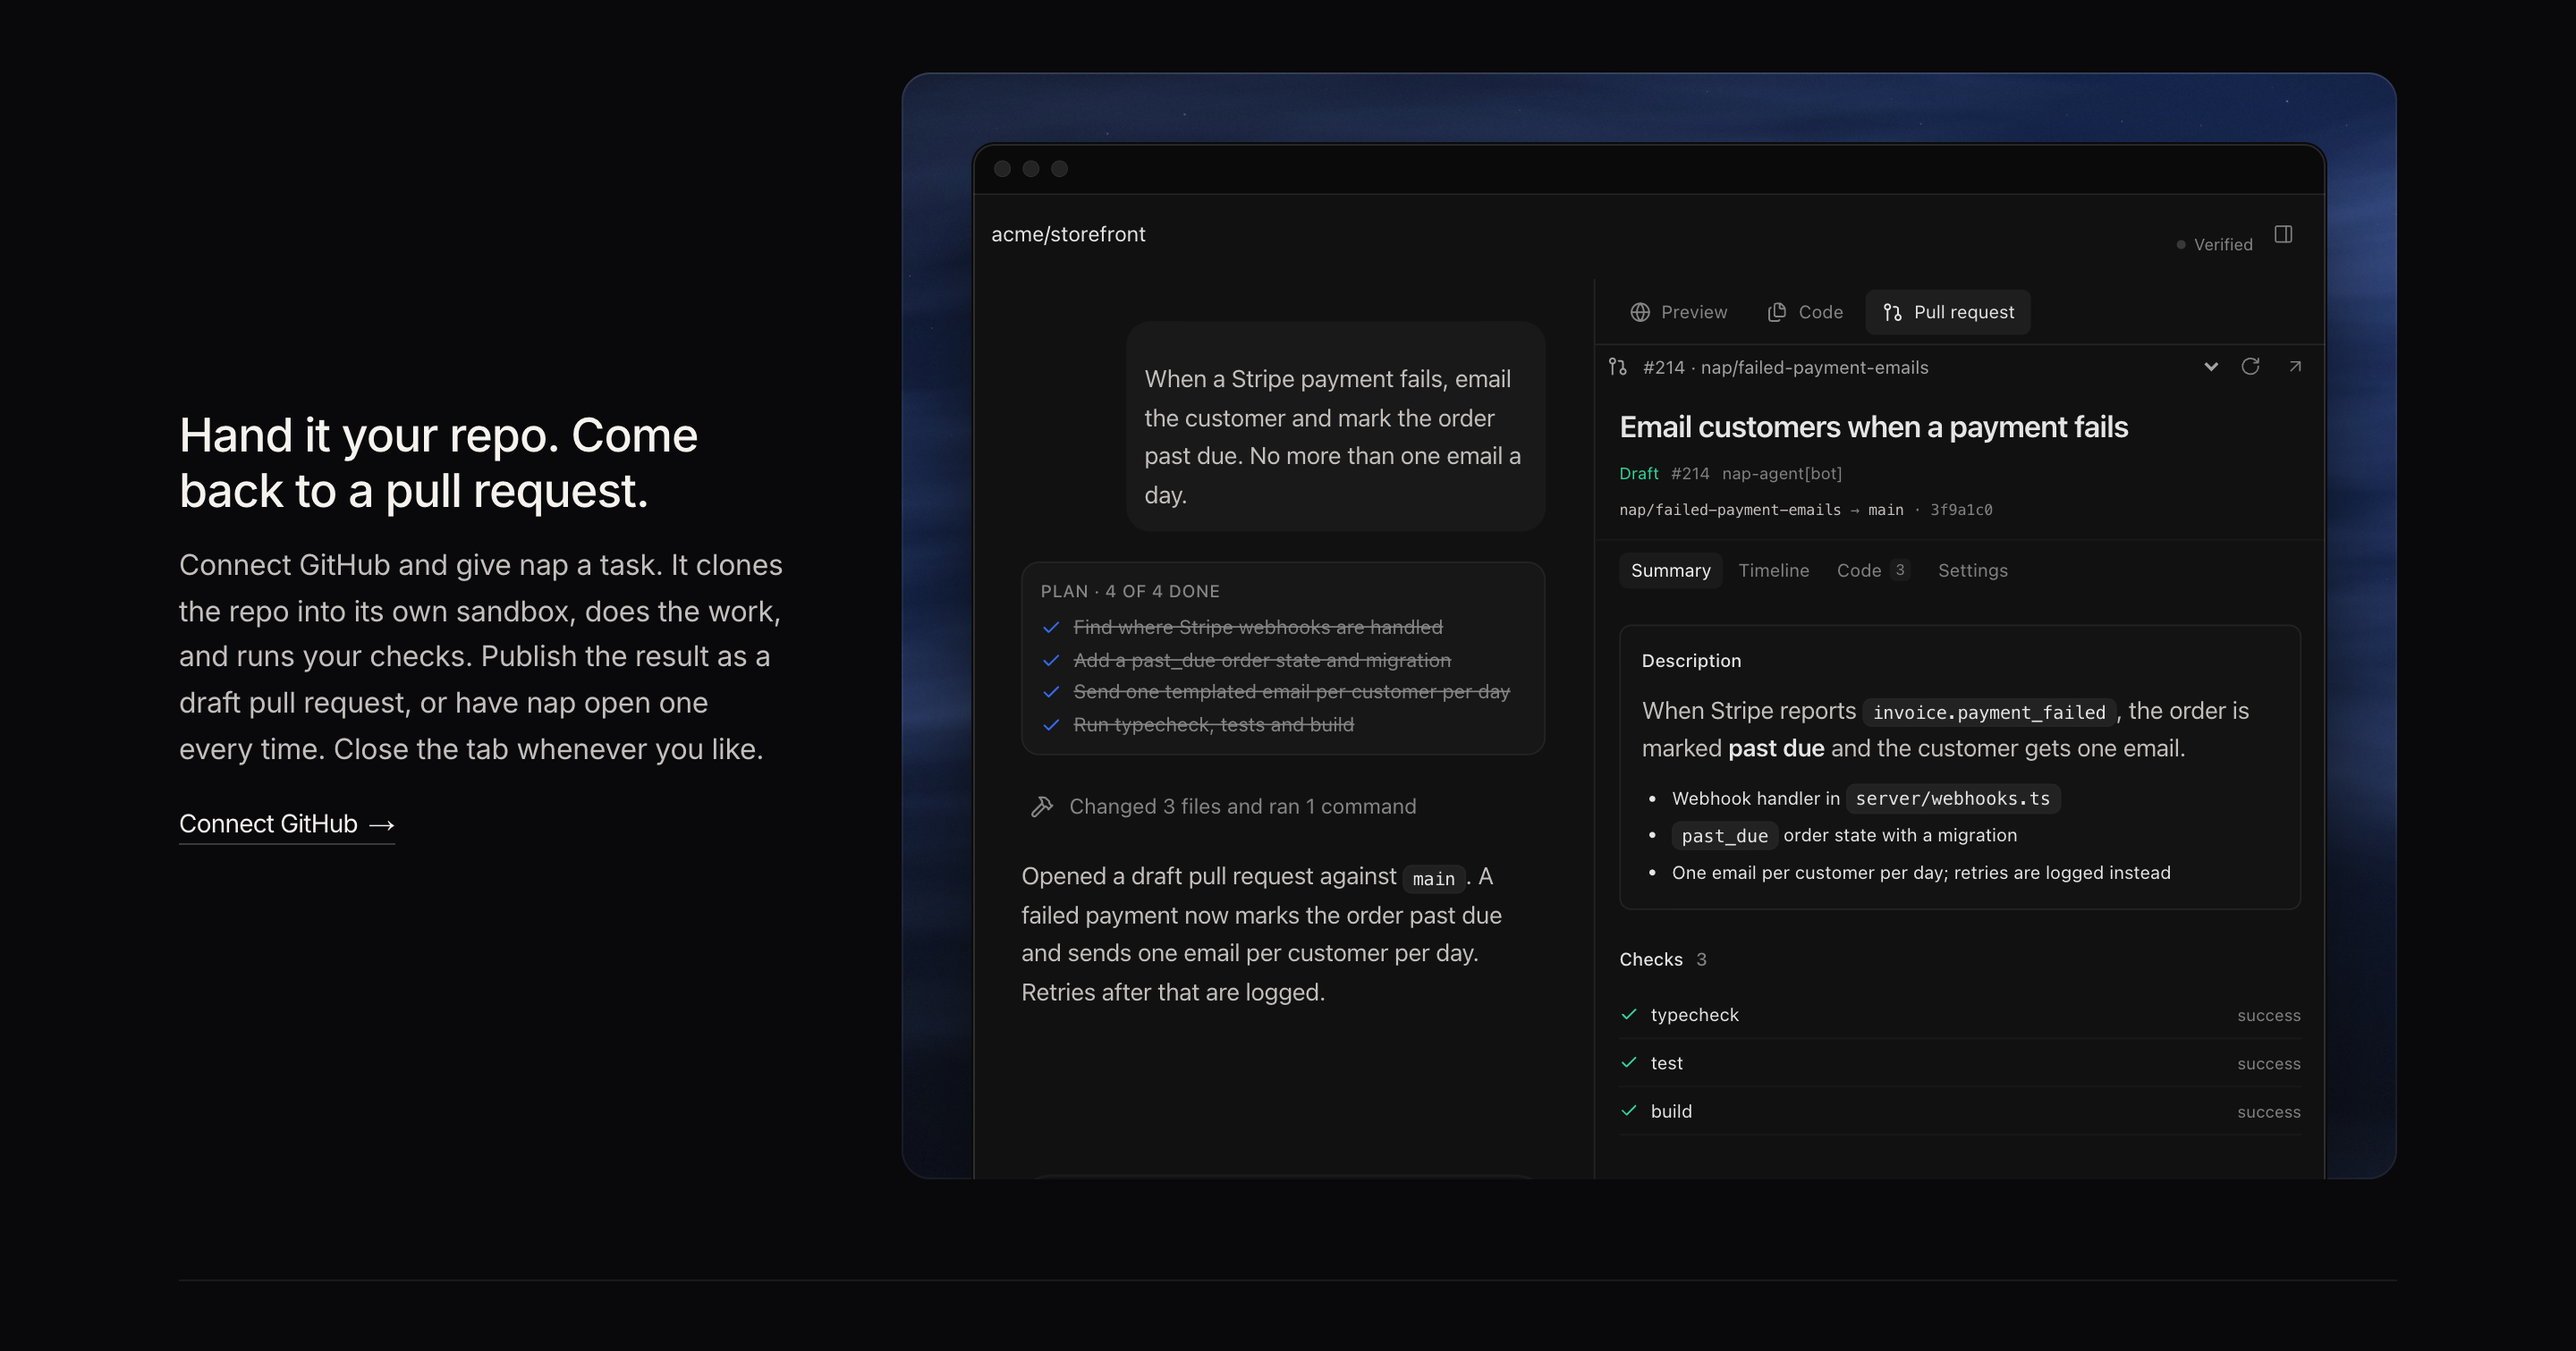
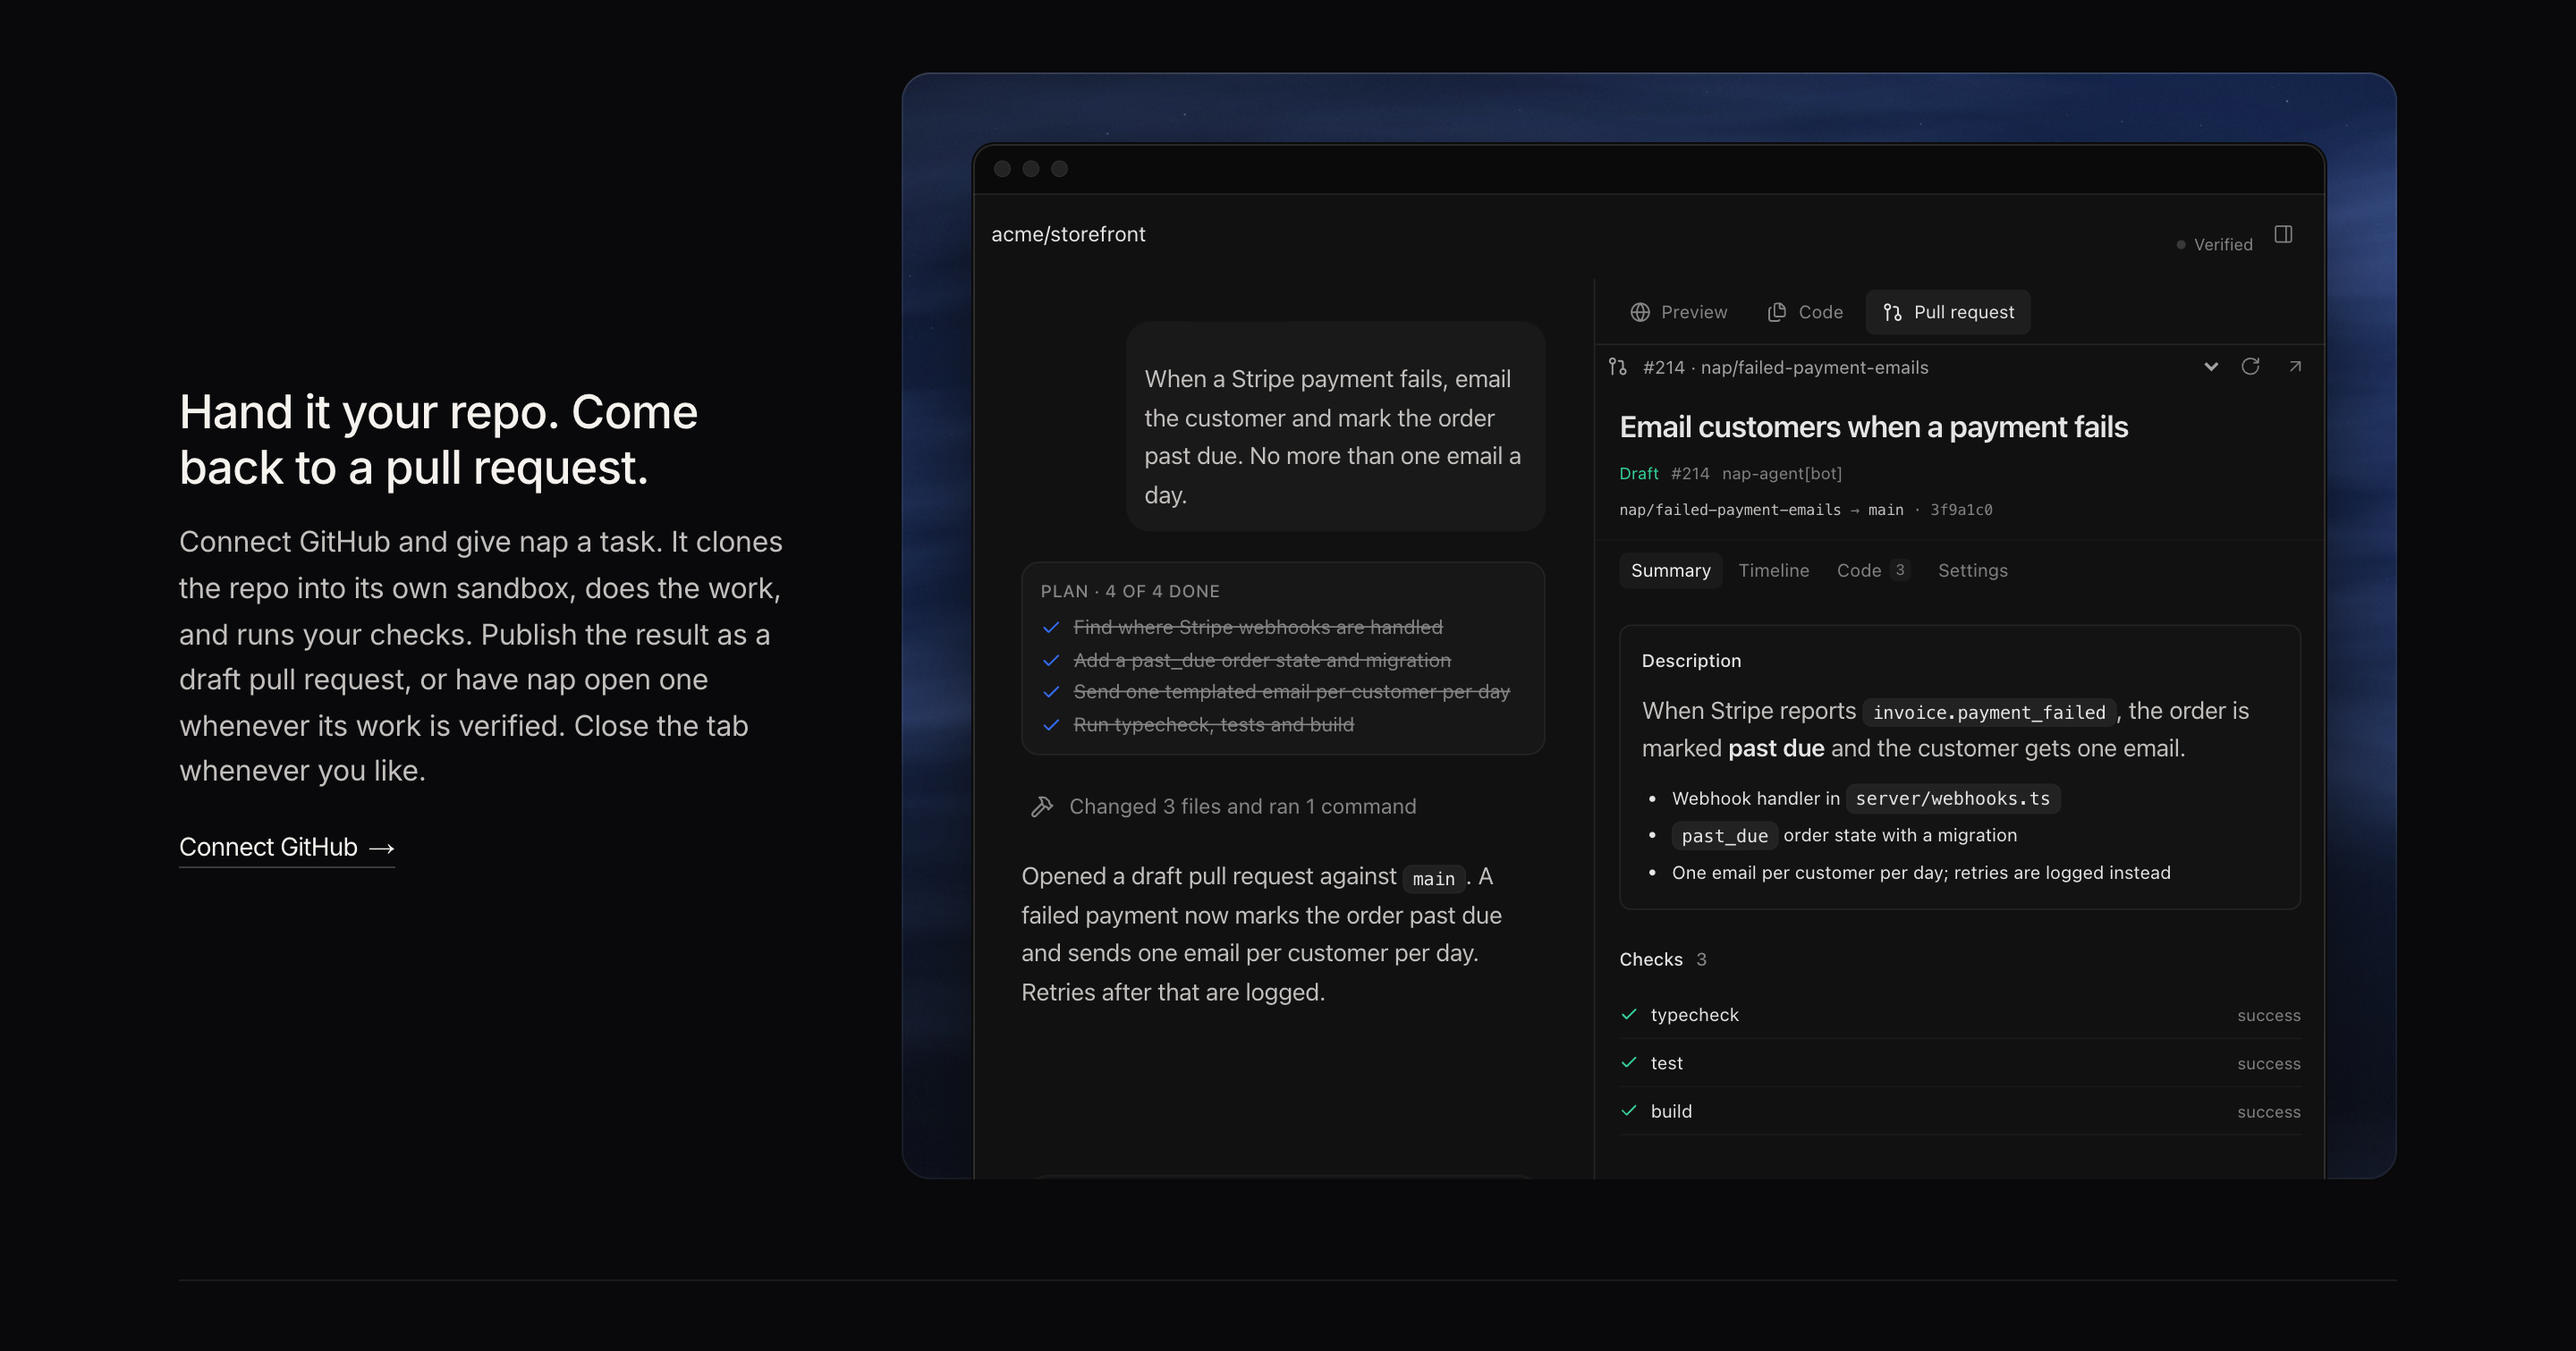
fix(web): say when nap opens the pull request on its own
Automatic publishing opens a draft pull request for verified work, and a
follow-up reuses it; it does not open one every time. The repo row now
says "whenever its work is verified". The row's screenshots are retaken.

Changed region(s): [[0.0625, 0.2799, 0.3125, 0.6532]]

diff --git a/apps/web/src/landing/features.tsx b/apps/web/src/landing/features.tsx
@@ -21,7 +21,7 @@ const ROWS: readonly {
   {
     id: "repo",
     title: "Hand it your repo. Come back to a pull request.",
-    body: "Connect GitHub and give nap a task. It clones the repo into its own sandbox, does the work, and runs your checks. Publish the result as a draft pull request, or have nap open one every time. Close the tab whenever you like.",
+    body: "Connect GitHub and give nap a task. It clones the repo into its own sandbox, does the work, and runs your checks. Publish the result as a draft pull request, or have nap open one whenever its work is verified. Close the tab whenever you like.",
     link: { label: "Connect GitHub", href: "/sign-up" },
     Art: RepoArt,
   },
